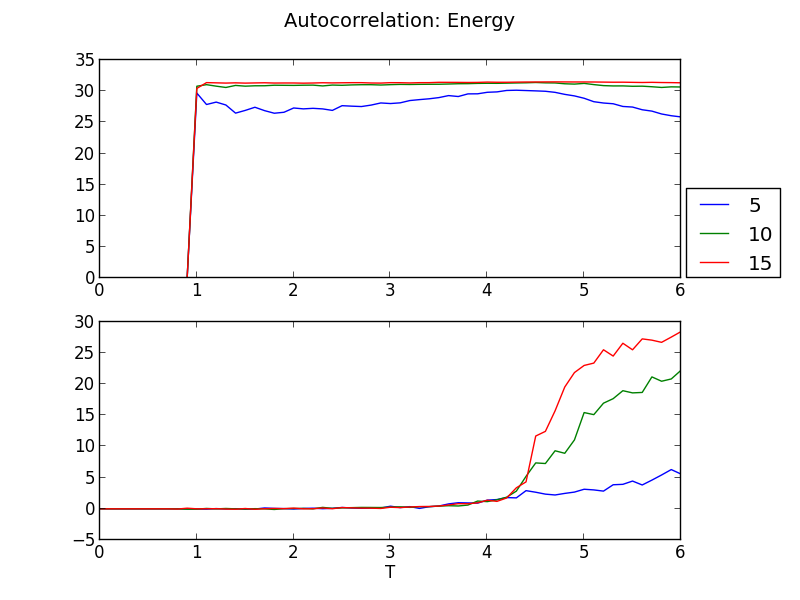
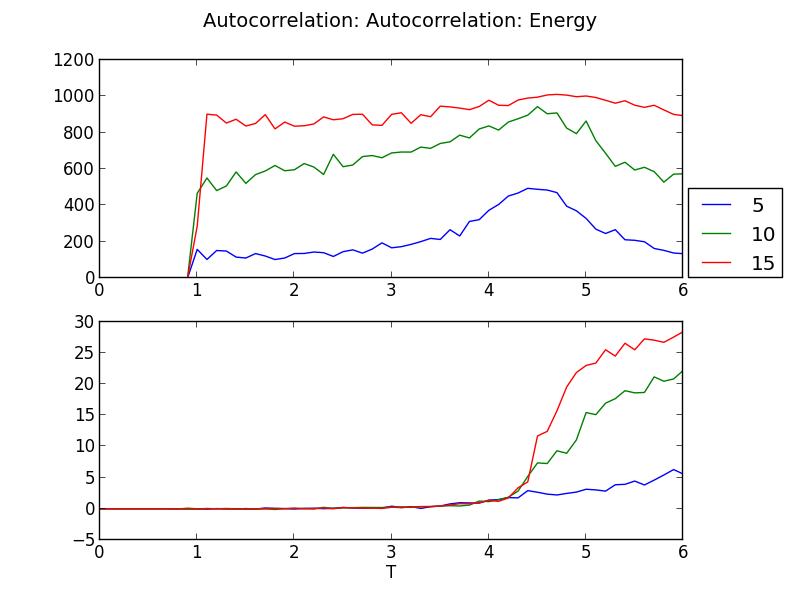
new autocorrelation plots

diff --git a/results/measurements/plot.py b/results/measurements/plot.py
@@ -149,7 +149,7 @@ def plotClusterSizeRelative():
 
  
 def plotComparisonAutoCorrelation(measure):
-    pltdataSingle = [(data.data[x]['systemSize'], data.data[x]['temperature'], data.data[x]['results']['single'][measure]['autocorr'][maxBinWolff]) for x in range(len(data.data))]
+    pltdataSingle = [(data.data[x]['systemSize'], data.data[x]['temperature'], data.data[x]['results']['single'][measure]['autocorr'][maxBinSingle]) for x in range(len(data.data))]
     pltdataSingle.sort(key=lambda x: (x[0], x[1]))
 
     pltdataWolff = [(data.data[x]['systemSize'], data.data[x]['temperature'], data.data[x]['results']['wolff'][measure]['autocorr'][maxBinWolff]) for x in range(len(data.data))]
@@ -172,6 +172,27 @@ def plotComparisonAutoCorrelation(measure):
     fig.suptitle('Autocorrelation: '+title, fontsize=14)
     ax1.legend(bbox_to_anchor=(1.01, 0), loc='lower left', borderaxespad=0.)
     pl.show()
+    
+def plotAutoCorrelationForOneSystem(system, measure):
+    maxBin = 0
+    if system == 'single':
+        maxbin = maxBinSingle
+    else:
+        maxbin = maxBinWolff
+        
+    pltdataSingle = [(data.data[x]['systemSize'], data.data[x]['temperature'], data.data[x]['results'][system][measure]['autocorr'][maxbin]) for x in range(len(data.data))]
+    pltdataSingle.sort(key=lambda x: (x[0], x[1]))
+    
+    for systemSize in sorted(list(set([a for (a,x,y) in pltdataSingle]))):
+                pl.plot([x for (a,x,y) in pltdataSingle if a==systemSize],[y for (a,x,y) in pltdataSingle if a==systemSize], label=systemSize)
+    
+    fig = pl.gcf()
+    fig.suptitle(title,fontsize=14) 
+    pl.xlabel(xlbl)
+    pl.legend(loc='upper left')
+    pl.show()
+    
+    
 
 # plot spatial spin correlations
 title='Spatial spin correlation at T=2'
@@ -182,11 +203,14 @@ title='Magnetization'
 plotForOneSystemSize('single', 15, 'magnetization')
 
 # plot autocorrelations
-title='Energy'
-plotComparisonAutoCorrelation('energy')
+title='Autocorrelation: Energy'
+plotAutoCorrelationForOneSystem('single','energy')
 
-title='Magnetization'
-plotComparisonAutoCorrelation('magnetization')
+title='Autocorrelation: Magnetization'
+plotAutoCorrelationForOneSystem('single','magnetization')
+
+title='Autocorrelation: Energy'
+plotComparisonAutoCorrelation('energy')
 
 # plot energy
 title='Energy'
